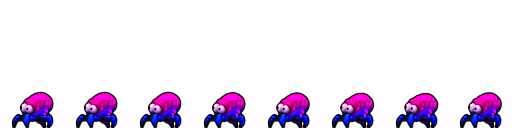
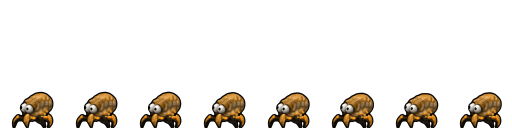
Added another stomp sound for the strong crawlers and trying a different color for them

Changed region(s): [[0.0, 0.7188, 1.0, 1.0]]

diff --git a/Game.cpp b/Game.cpp
@@ -35,6 +35,7 @@ Game::Game()
 	, mCoinSound(NULL)
 	, mJumpSound(NULL)
 	, mStompSound(NULL)
+	, mStompSoundNoKill(NULL)
 	, mDieSound(NULL)
 	, mMusic(NULL)
 {
@@ -215,8 +216,9 @@ bool Game::Initialize()
 	mCoinSound = Mix_LoadWAV("media/coin_sound.wav");
 	mJumpSound = Mix_LoadWAV("media/jump_sound.wav");
 	mStompSound = Mix_LoadWAV("media/stomp_sound.wav");
+	mStompSoundNoKill = Mix_LoadWAV("media/stomp_sound_nokill.wav");
 	mDieSound = Mix_LoadWAV("media/die_sound.wav");
-	if (mCoinSound == NULL || mJumpSound == NULL || mStompSound == NULL || mDieSound == NULL)
+	if (mCoinSound == NULL || mJumpSound == NULL || mStompSound == NULL || mDieSound == NULL || mStompSoundNoKill == NULL)
 	{
 		std::cerr << "*** Failed to initialize mCoinSound" << Mix_GetError()<<std::endl;
 		return false;
@@ -254,13 +256,15 @@ bool Game::Initialize()
     float y = mScrHeight - 1.0f - 32.0f;
     for (int i = 0; i < 4; i++)
 	{
-		if (i % 2){
+		if (i % 2)
+		{
 			float x = GG::RandomFloat(minX, maxX);
 			Crawler* crawler = new CrawlerWeak(x, y, true);
 			crawler->SetDirection(GG::RandomSign());
 			mCrawlers.push_back(crawler);
 		}
-		else{
+		else
+		{
 			float x = GG::RandomFloat(minX, maxX);
 			Crawler* crawler = new CrawlerStrong(x, y, false);
 			crawler->SetDirection(GG::RandomSign());
@@ -269,7 +273,6 @@ bool Game::Initialize()
       
     }
 
-	
 	Mix_PlayMusic(mMusic, -1);
     return true;
 }
@@ -531,12 +534,15 @@ void Game::Update(float dt)
 				mRobot->GetCollisonRect().x < crawler->GetCollisionRect().x + crawler->GetCollisionRect().w &&
 				mRobot->GetCollisonRect().y + mRobot->GetCollisonRect().h > crawler->GetCollisionRect().y && crawler->GetState() != CrawlerWeak::CRAWLER_DYING)
 				{
-					if (crawler->IsJumpedOn()){
+					if (crawler->IsJumpedOn())
+					{
 						Mix_PlayChannel(-1, mStompSound, 0);
 						mRobot->Bounce(-400, false);
 						crawler->SetState(Crawler::CRAWLER_DYING);
 					}
-					else{
+					else
+					{
+						Mix_PlayChannel(-1, mStompSoundNoKill, 0);
 						mRobot->Bounce(-400, false);
 						crawler->SetState(Crawler::CRAWLER_DYING);
 					}

diff --git a/Crawler.cpp b/Crawler.cpp
@@ -86,35 +86,35 @@ void Crawler::SetState(AIState newState)
 	case CRAWLER_IDLE:
 	{
 
-						 mIdleRenderable->Rewind();
-						 SetRenderable(mIdleRenderable);
+		mIdleRenderable->Rewind();
+		SetRenderable(mIdleRenderable);
 
-						 int numCycles = GG::RandomIntInclusive(2, 5);
-						 mNextThinkTime = game->GetTime() + numCycles * mIdleRenderable->GetDuration();
+		int numCycles = GG::RandomIntInclusive(2, 5);
+		mNextThinkTime = game->GetTime() + numCycles * mIdleRenderable->GetDuration();
 
-						 break;
+		break;
 	}
 
 	case CRAWLER_WALK:
 	{
-						 mWalkRenderable->Rewind();
-						 SetRenderable(mWalkRenderable);
+		mWalkRenderable->Rewind();
+		SetRenderable(mWalkRenderable);
 
-						 SetSpeedScale(GG::RandomFloat(0.5f, 2.0f));
+		SetSpeedScale(GG::RandomFloat(0.5f, 2.0f));
 
-						 int numCycles = GG::RandomIntInclusive(5, 10);
-						 mNextThinkTime = game->GetTime() + numCycles * mWalkRenderable->GetDuration();
+		int numCycles = GG::RandomIntInclusive(5, 10);
+		mNextThinkTime = game->GetTime() + numCycles * mWalkRenderable->GetDuration();
 
-						 break;
+		break;
 	}
 
 	case CRAWLER_DYING:
 	{
 
-						  mIdleRenderable->Rewind();
-						  SetRenderable(mDieRenderable);
+		mIdleRenderable->Rewind();
+		SetRenderable(mDieRenderable);
 
-						  break;
+		break;
 	}
 
 	default:

diff --git a/Game.h b/Game.h
@@ -71,6 +71,7 @@ class Game {
 	Mix_Chunk*				mCoinSound;
 	Mix_Chunk*				mJumpSound;
 	Mix_Chunk*				mStompSound;
+	Mix_Chunk*				mStompSoundNoKill;
 	Mix_Chunk*				mDieSound;
 	Mix_Music*				mMusic;
 

diff --git a/CrawlerStrong.cpp b/CrawlerStrong.cpp
@@ -53,9 +53,6 @@ CrawlerStrong::~CrawlerStrong()
 
 void CrawlerStrong::Update(float dt)
 {
-
-
-
 	Game* game = Game::GetInstance();
 
 	switch (mState)
